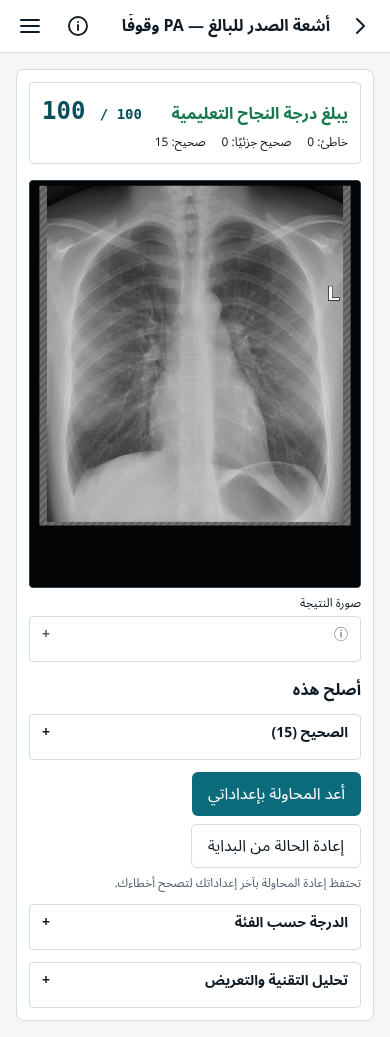
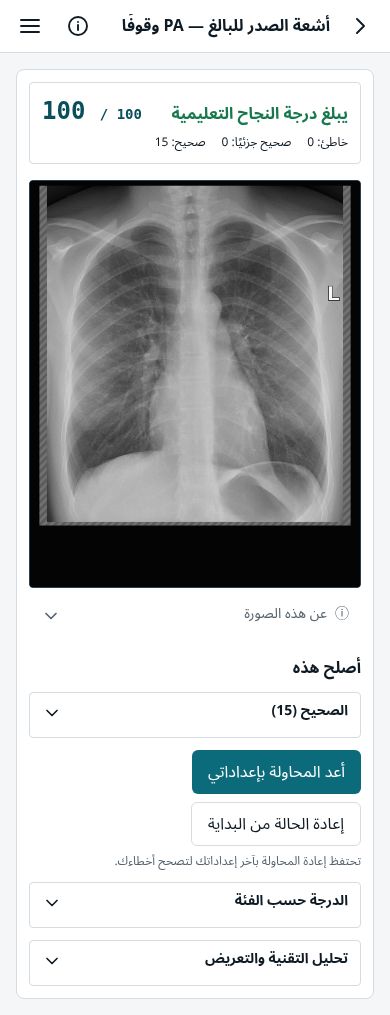
docs: record phone review fixes and one-pass full QA for RAD-069A

diff --git a/docs/project-status.md b/docs/project-status.md
@@ -6,8 +6,8 @@
 
 ## ملخص الحالة الحالية (سرد قصير، يُحدَّث كله في كل جلسة؛ لا يُقرأ آلياً)
 
-- **الاتجاه الحالي:** RAD-069 A منفذة للمراجعة وفحص المالك على الهاتف والحاسوب؛ B1/B2a/B2b/C مخططة وفق [قرار المالك](DECISIONS.md#rad069a-owner-2026-10-24). RAD-072 مكتملة مع تأكيد الهاتف؛ RAD-073 مخططة.
-- **ينتظر المالك:** فحص نتيجة RAD-069 A على الهاتف والحاسوب بعد التنفيذ؛ قرارات نتائج RAD-074 §7؛ البند 16 من قائمة الصور؛ استئناف Assess بإذن منفصل.
+- **الاتجاه الحالي:** RAD-069 A مع تلميع ملاحظات الهاتف السبع للمراجعة وإعادة فحص المالك على الهاتف والحاسوب؛ B1/B2a/B2b/C مخططة وفق [قرار المالك](DECISIONS.md#rad069a-owner-2026-10-24). RAD-072 مكتملة مع تأكيد الهاتف؛ RAD-073 مخططة.
+- **ينتظر المالك:** إعادة فحص نتيجة RAD-069 A بعد تلميع الهاتف على PR #121؛ قرارات نتائج RAD-074 §7؛ البند 16 من قائمة الصور؛ استئناف Assess بإذن منفصل.
 - **ينتظر مراجِعًا بشريًا:** لا جديد؛ حدود RAD-019 وO108 والمصادر والتراخيص محفوظة في مهامها.
 - **مرجع Git:** `npm run docs:context` للحالة الراهنة؛ #120 مدموج وفق التحقق عند بدء RAD-069 A؛ [إغلاق RAD-072](DECISIONS.md#rad072-phone-closure-2026-10-24).
 - **مخاطر معلنة:** القيم provisional داخليًا بلا ادعاء مصادقة سريرية؛ A تخطيط فقط، واستثناء بصماتها محصور في result|…؛ تبقى scene وgolden وcharacterisation وبكسلات الصورة والتقييم ثابتة.
@@ -19,8 +19,8 @@
 {
   "project": "RAD-LAB",
   "format_version": "1.1",
-  "revision": 255,
-  "updated_at": "2026-10-24T20:10:00+00:00",
+  "revision": 256,
+  "updated_at": "2026-10-24T20:20:00+00:00",
   "timezone": "UTC",
   "next_id": "RAD-075",
   "tasks": [
@@ -641,7 +641,7 @@
       "title": "UI-4: A النتيجة؛ B1 الصفحات؛ B2a الثيم؛ B2b الرسومات؛ C لوحة المالك",
       "status": "review",
       "priority": "medium",
-      "description": "A: نتيجة بالحكم أولًا، أخطاء قابلة للتوسعة وصورة ثابتة على الحاسوب؛ تنتظر فحص المالك على الهاتف والحاسوب. B1: الرئيسية/المكتبة/التدريب/اللغة؛ B2a: الثيم (F7، داكن افتراضي)؛ B2b: الرسومات (F8، من الحدود المتتبعة)؛ C: لوحة المالك وتصدير RAD-044 ومواضع Assess؛ مخططة.",
+      "description": "A: نُفذت ملاحظات الهاتف السبع (2026-10-24): سطر معلومات الصورة، رأس واضح، الأهداف والتنسيق، وإزالة تداخل الملاحظات؛ تنتظر إعادة فحص المالك على الهاتف والحاسوب. B1: الصفحات واللغة؛ B2a: الثيم (F7)؛ B2b: الرسومات (F8)؛ C: لوحة المالك وتصدير RAD-044 ومواضع Assess؛ مخططة.",
       "source_ref": "docs/DECISIONS.md#ui-inventory-owner-2026-10-22؛ docs/RAD-064_UI_INVENTORY_REPORT_2026-10-22.md؛ docs/DECISIONS.md#rad069a-owner-2026-10-24؛ docs/RAD-069A_REPORT_2026-10-24.md؛ docs/RAD-069A_HASHES_2026-10-24.md",
       "waiting_on": "owner"
     },
